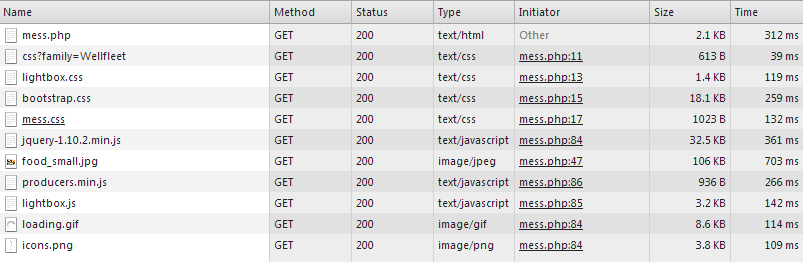
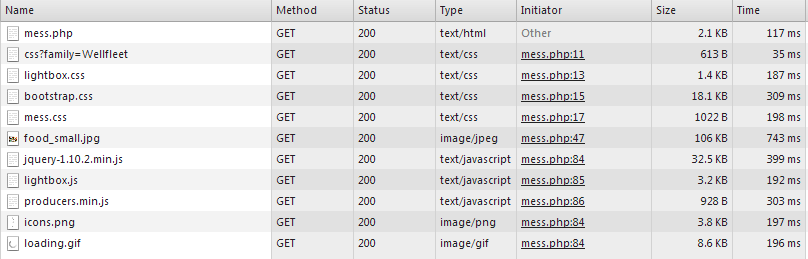
Reduced AJAX calls to 1, js DOM search changed

diff --git a/lab2/code/js/producers.js b/lab2/code/js/producers.js
@@ -28,10 +28,11 @@ $( document ).ready(
 
 // Called when we click on a producer link - gets the id for the producer 
 function changeProducer(pid) {
-					
+				
+	var messContainer = $("#mess_container");	
 	// Clear and update the hidden stuff
-	$( "#mess_inputs").val(pid);
-	$( "#mess_p_mess").empty();
+	messContainer.find( "#mess_inputs").val(pid);
+	messContainer.find( "#mess_p_mess").empty();
 	
 	// get all the stuff for the producers
 	// make ajax call to functions.php with the data
@@ -42,43 +43,36 @@ function changeProducer(pid) {
 	}).done(function(data) { // called when the AJAX call is ready
 		var j = JSON.parse(data);
 		
-		$("#mess_p_headline").text("Meddelande till " +j.name +", " +j.city);
+		messContainer.find("#mess_p_headline").text("Meddelande till " +j.name +", " +j.city);
 		
 		
 		if(j.url !== "") {
 			
-			$("#mess_p_kontakt").text("Länk till deras hemsida " +j.url);
+			messContainer.find("#mess_p_kontakt").text("Länk till deras hemsida " +j.url);
 		}
 		else {
-			$("#mess_p_kontakt").text("Producenten har ingen webbsida");
+			messContainer.find("#mess_p_kontakt").text("Producenten har ingen webbsida");
 		}
 		
 		if(j.imageURL !== "") {
-			$("#p_img_link").attr("href", j.imageURL); 
-			$("#p_img").attr("src", j.imageURL); 
+			messContainer.find("#p_img_link").attr("href", j.imageURL); 
+			messContainer.find("#p_img").attr("src", j.imageURL); 
 		}
 		else {
-			$("#p_img_link").attr("href", "#"); 
-			$("#p_img").attr("src", "img/noimg.jpg"); 
+			messContainer.find("#p_img_link").attr("href", "#"); 
+			messContainer.find("#p_img").attr("src", "img/noimg.jpg"); 
 		}
-	});
-	
-	// Get all the messages for the producers through functions.php
-	$.ajax({
-		type: "GET",
-	  	url: "functions.php",
-	  	data: {function: "getMessages", pid: pid}	
-	}).done(function(data) {
-		var j = JSON.parse(data);
-		
-		if (j.length > 0) {
-			j.reverse().forEach(function(entry) {
-				$( "#mess_p_mess" ).append( "<p class='message_container'>" +entry.message +"<br />Skrivet av: " +entry.name +"</p>");
+
+		if (j.messages !== null) {
+			j.messages.reverse().forEach(function(entry) {
+				messContainer.find( "#mess_p_mess" ).append( "<p class='message_container'>" +entry.message +"<br />Skrivet av: " +entry.name +"</p>");
 			});
 		}
 	});
 	
+	
+	
 	// show the div if its unvisible
-	$("#mess_container").show("slow");
+	messContainer.show("slow");
 	
 }

diff --git a/lab2/code/js/producers.min.js b/lab2/code/js/producers.min.js
@@ -1,1 +1,1 @@
-$(document).ready(function(){$("#logout").bind("click",function(){window.location="index.php"});$("#add_btn").bind("click",function(){var b=$('#name_txt').val();var c=$('#message_ta').val();var d=$('#mess_inputs').val();$.ajax({type:"GET",url:"functions.php",data:{function:"add",name:b,message:c,pid:d}}).done(function(a){alert(a);});});});function changeProducer(c){$("#mess_inputs").val(c);$("#mess_p_mess").empty();$.ajax({type:"GET",url:"functions.php",data:{function:"producers",pid:c}}).done(function(a){var j=JSON.parse(a);$("#mess_p_headline").text("Meddelande till "+j.name+", "+j.city);if(j.url!==""){$("#mess_p_kontakt").text("Länk till deras hemsida "+j.url)}else{$("#mess_p_kontakt").text("Producenten har ingen webbsida")}if(j.imageURL!==""){$("#p_img_link").attr("href",j.imageURL);$("#p_img").attr("src",j.imageURL)}else{$("#p_img_link").attr("href","#");$("#p_img").attr("src","img/noimg.jpg")}});$.ajax({type:"GET",url:"functions.php",data:{function:"getMessages",pid:c}}).done(function(b){var j=JSON.parse(b);if(j.length>0){j.reverse().forEach(function(a){$("#mess_p_mess").append("<p class='message_container'>"+a.message+"<br />Skrivet av: "+a.name+"</p>")})}});$("#mess_container").show("slow")}
+$(document).ready(function(){$("#logout").bind("click",function(){window.location="index.php"});$("#add_btn").bind("click",function(){var b=$('#name_txt').val();var c=$('#message_ta').val();var d=$('#mess_inputs').val();$.ajax({type:"GET",url:"functions.php",data:{function:"add",name:b,message:c,pid:d}}).done(function(a){alert(a);});});});function changeProducer(c){var d=$("#mess_container");d.find("#mess_inputs").val(c);d.find("#mess_p_mess").empty();$.ajax({type:"GET",url:"functions.php",data:{function:"producers",pid:c}}).done(function(b){var j=JSON.parse(b);d.find("#mess_p_headline").text("Meddelande till "+j.name+", "+j.city);if(j.url!==""){d.find("#mess_p_kontakt").text("Länk till deras hemsida "+j.url)}else{d.find("#mess_p_kontakt").text("Producenten har ingen webbsida")}if(j.imageURL!==""){d.find("#p_img_link").attr("href",j.imageURL);d.find("#p_img").attr("src",j.imageURL)}else{d.find("#p_img_link").attr("href","#");d.find("#p_img").attr("src","img/noimg.jpg")}if(j.messages!==null){j.messages.reverse().forEach(function(a){d.find("#mess_p_mess").append("<p class='message_container'>"+a.message+"<br />Skrivet av: "+a.name+"</p>")})}});d.show("slow")}

diff --git a/lab2/code/functions.php b/lab2/code/functions.php
@@ -11,6 +11,7 @@ if(isset($_GET['function'])) {
 	
 	if($_GET['function'] == 'logout') {
     logout();
+    
   } else if($_GET['function'] == 'add') {
        
     $name = $_GET["name"];
@@ -23,10 +24,5 @@ if(isset($_GET['function'])) {
   else if($_GET['function'] == 'producers') {
   	$pid = $_GET["pid"];
    	echo(json_encode(getFullProducer($pid)));
-  }
-  else if($_GET['function'] == 'getMessages') {
-    $pid = $_GET["pid"];
-   	 echo(json_encode(getMessagesByProducer($pid)));
-  }  
-
+  } 
 }

diff --git a/lab2/code/get.php b/lab2/code/get.php
@@ -26,8 +26,11 @@ function getFullProducer($id) {
 		return false;
 	}
 	
-	if($result)
+	if($result) {
+		$messages = getMessagesByProducer($id);
+		$result[0]['messages'] = $messages;
 		return $result[0];
+	}
 	else
 	 	return false;
 }
@@ -54,13 +57,13 @@ function getMessagesByProducer($pid) {
 	}
 	catch(PDOException $e) {
 		echo("Error creating query: " .$e->getMessage());
-		return false;
+		return null;
 	}
 	
 	if($result)
 		return $result;
 	else
-	 	return false;
+	 	return null;
 }
 
 

diff --git a/lab2/report.md b/lab2/report.md
@@ -29,6 +29,7 @@ Att ladda in en bild och sedan skala ned denna i HTML är mycket onödigt. Efter
 #### Referenser
 
 http://www.hongkiat.com/blog/ultimate-guide-to-web-optimization-tips-best-practices/
+
 http://www.shopify.com/blog/7412852-10-must-know-image-optimization-tips
 
 När | Antal HTTP Anrop | Total data | Medel laddningstid
@@ -158,8 +159,7 @@ Om denna applikationen skulle växa och få mer användare så skulle antalet AJ
 
 ##### Efter förändring
 
-* 1 req för att hämta producers
-* 1 req för att hämta alla meddelanden
+* 1 req för att hämta producers och meddelanden
 * 1 req för bilden
 
 #### Total förbättring för punkt 5
@@ -169,13 +169,13 @@ När | Antal HTTP Anrop | Total data | Medel laddningstid
 Innan | 20 | 239 kB | 2,558 s
 Efter | 11 | 225 kB | 0,964 s
 
-45% mindre HTTP anrop
+* 45% mindre HTTP anrop
 
-62% kortare laddningtid
+* 62% kortare laddningtid
 
 #### Reflektion
 
-Dessa åtgärder för att förminska antalet HTTP anrop gjorde mycket för laddningstiden av sidan. Den stora vinsten gjordes när jag tog bort de 2 css filerna som låg på en annan host. När man använder resurser från andra webbservrar så måste man kontrollera hur lång tid dessa tar att ladda in, även om det går att ladda ner dessa paralellt med andra resurser. Det blev även enklare att hålla reda på cssen när alla egenskriven css ligger i en egen fil. Jag valde att ha 2 AJAX anrop för att hämta all data tillhörandes en producent. Detta eftersom jag inte ville lägga tid på att slå samman resulteten från de olika databaserna. Jag måste erkänna att jag blev överaskad över hur stor skillnad de sakerna jag gjorde på denna punkten förbättrade laddningtiderna.
+Dessa åtgärder för att förminska antalet HTTP anrop gjorde mycket för laddningstiden av sidan. Den stora vinsten gjordes när jag tog bort de 2 css filerna som låg på en annan host. När man använder resurser från andra webbservrar så måste man kontrollera hur lång tid dessa tar att ladda in, även om det går att ladda ner dessa paralellt med andra resurser. Det blev även enklare att hålla reda på cssen när alla egenskriven css ligger i en egen fil. Genom ändringarna som jag gjorde med AJAX anropen så är det alltid samma antal anrop, men med olika mängd data som svar. Jag måste erkänna att jag blev överaskad över hur stor skillnad de sakerna jag gjorde på denna punkt förbättrade laddningtiderna.
 
 ### 6: Unvika onödiga redirects
 
@@ -205,6 +205,8 @@ Jag kan inte hitta några referenser till varför man ska göra det jag har gjor
 
 * Ändrade koden för att tömma noden för meddelanden, från .text("") till .empty().
 
+* "Cachade" noden "#mess_container" för att slippa leta igenom hela DOM trädet varje gång något ska ändras när meddelanden läggs till.
+
 #### Server
 
 * Tog bort onödig require_once i mess.php
@@ -226,7 +228,7 @@ Vad | När | Total data | Medel laddningstid
 jQuery | Innan | 76,6 kB | 662 ms
 jQuery | Efter | 32,4 kB | 420 ms
 producers | Innan | 1,2 kB | 224 ms
-producers | Efter | 936 B | 220 ms
+producers | Efter | 928 B | 220 ms
 
 När | Antal HTTP Anrop | Total data | Medel laddningstid
 --- | --- | --- | ---
